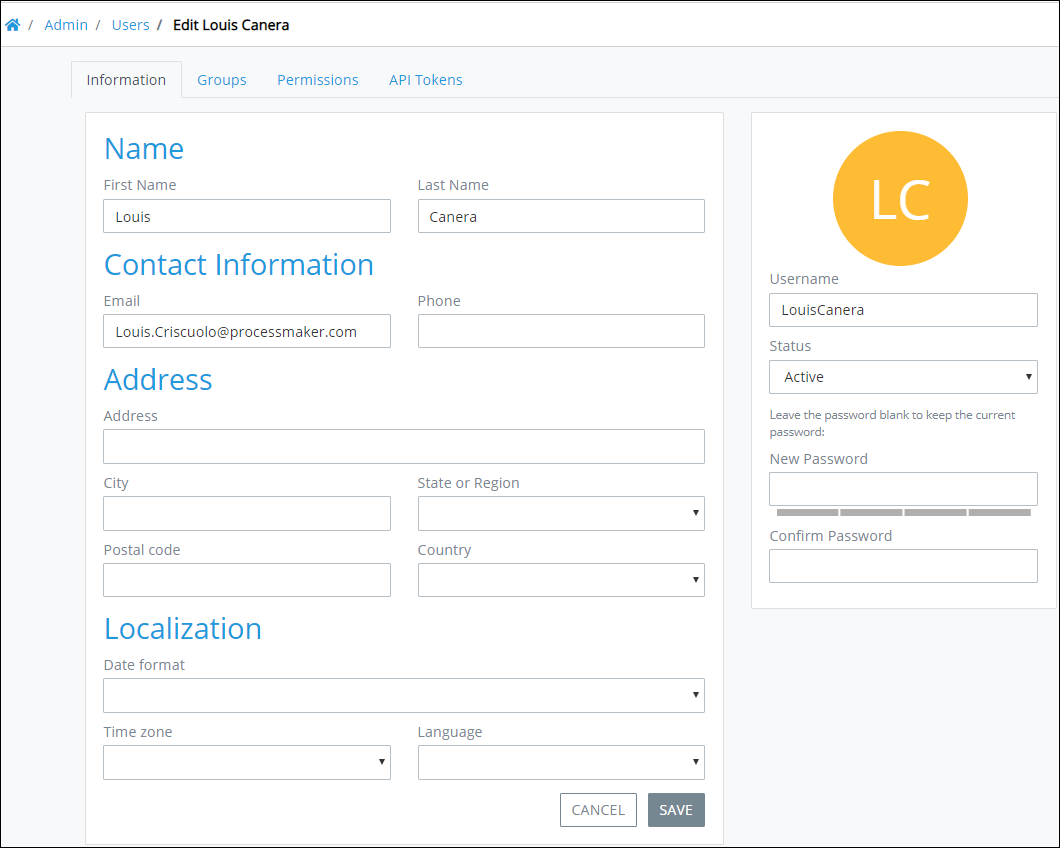
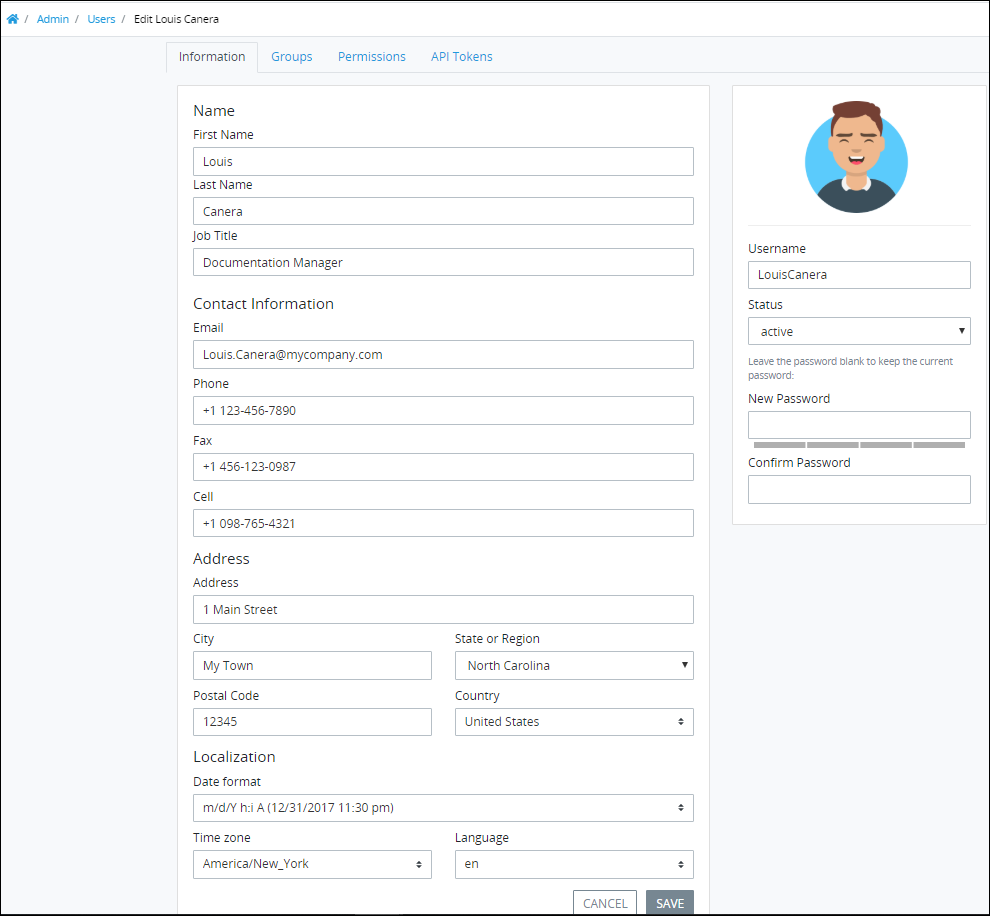
GitBook: [processmaker] 2 pages and 3 assets modified

diff --git a/processmaker-administration/add-users/manage-user-accounts/create-a-user-account.md b/processmaker-administration/add-users/manage-user-accounts/create-a-user-account.md
@@ -25,13 +25,14 @@ Follow these steps to create a ProcessMaker user account:
 3. In the **Username** field, enter the username associated with the ProcessMaker user account. This is a required field.
 4. In the **First name** field, enter the first name of the person associated with the ProcessMaker user account. This is a required field.
 5. In the **Last name** field, enter the last name of the person associated with the ProcessMaker user account. This is a required field.
-6. From the **Status** drop-down menu, select the status of the ProcessMaker user account using one of the following options:
+6. In the **Job Title** field, enter the person's organizational job title associated with the ProcessMaker user account.
+7. From the **Status** drop-down menu, select the status of the ProcessMaker user account using one of the following options:
    * **Active:** An Active ProcessMaker user account is one in which a person can use it to log in to ProcessMaker.
    * **Inactive:** An Inactive ProcessMaker user account is one in which a person cannot use it to log in to ProcessMaker.
-7. In the **Email** field, enter the email address associated with the ProcessMaker user account. This is a required field.
-8. In the **Password** field, enter the password associated with the ProcessMaker user account. Passwords must be at least eight \(8\) characters long. [Password special characters](https://www.owasp.org/index.php/Password_special_characters) are recommended. Password validation indicates how strong your password is if you enter a new password.
-9. In the **Confirm Password** field, confirm that the password matches that entered into the **New Password** field. Password validation indicates if the **New Password** and **Confirm Password** values do not match.
-10. Click **Save**. The following message displays: **The user was successfully created**. Furthermore, the **Information** tab displays for the new ProcessMaker user account to specify which groups and/or permissions to assign the new user account. See [Edit a User Account](edit-a-user-account.md#edit-a-processmaker-user-account).
+8. In the **Email** field, enter the email address associated with the ProcessMaker user account. This is a required field.
+9. In the **Password** field, enter the password associated with the ProcessMaker user account. Passwords must be at least eight \(8\) characters long. [Password special characters](https://www.owasp.org/index.php/Password_special_characters) are recommended. Password validation indicates how strong your password is if you enter a new password.
+10. In the **Confirm Password** field, confirm that the password matches that entered into the **New Password** field. Password validation indicates if the **New Password** and **Confirm Password** values do not match.
+11. Click **Save**. The following message displays: **The user was successfully created**. Furthermore, the **Information** tab displays for the new ProcessMaker user account to specify which groups and/or permissions to assign the new user account. See [Edit a User Account](edit-a-user-account.md#edit-a-processmaker-user-account).
 
 ## Related Topics
 

diff --git a/processmaker-administration/add-users/manage-user-accounts/edit-a-user-account.md b/processmaker-administration/add-users/manage-user-accounts/edit-a-user-account.md
@@ -26,6 +26,7 @@ Follow these steps to edit a ProcessMaker user account:
    * In the **Name** section, change the following information:
      * In the **First Name** field, edit the person's first name. This is a required field.
      * In the **Last Name** field, edit the person's last name. This is a required field.
+     * In the **Job Title** field, edit the person's organizational job title.
    * In the **Contact Information** section, change the following information:
      * In the **Email** field, edit the person's business email address. This is a required field.
      * In the **Phone** field, edit the person's business telephone or cell phone number.
